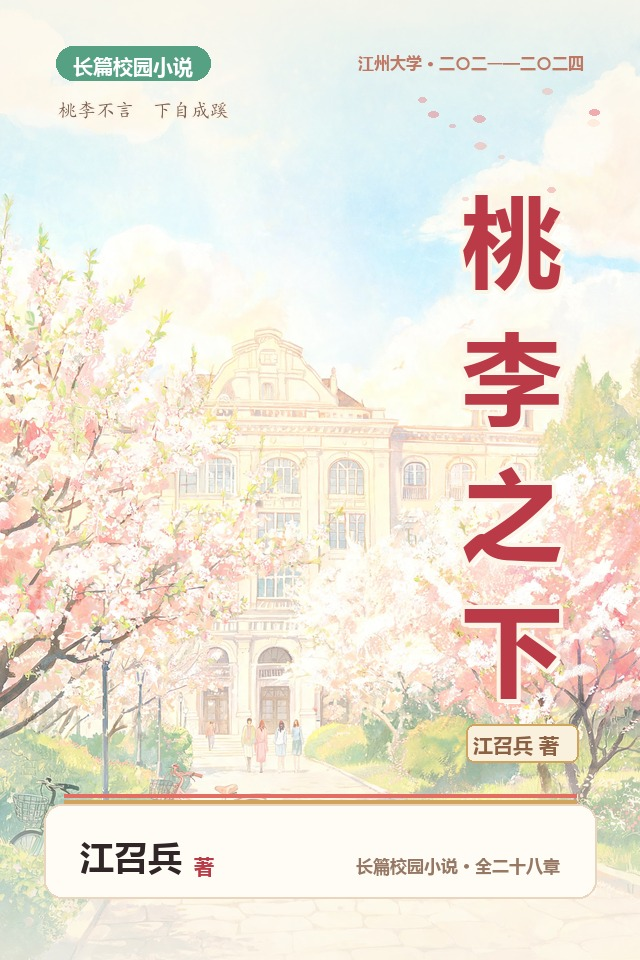
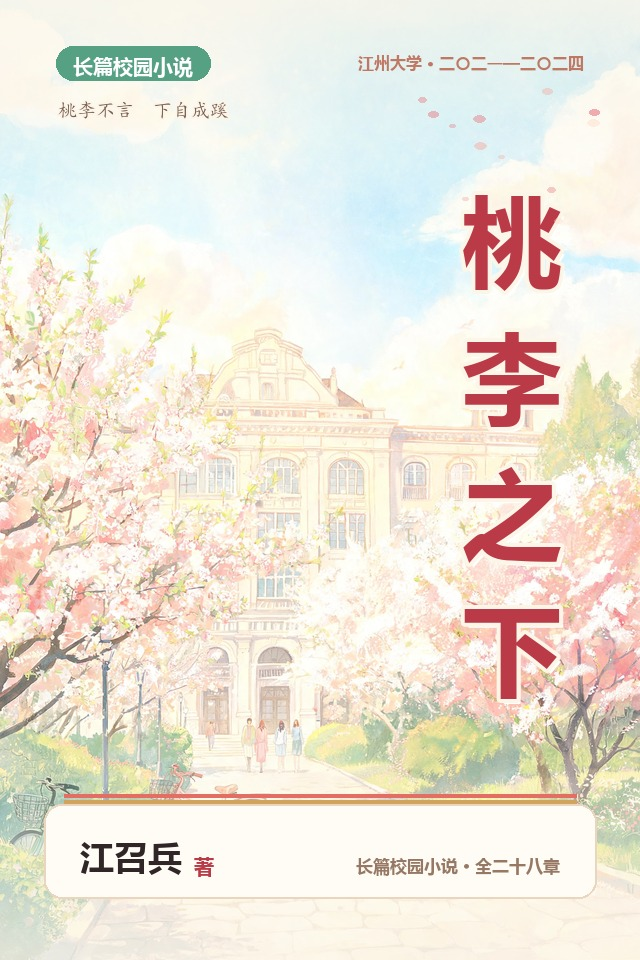
Taoli Zhixia: remove duplicate author line on cover (single byline in bottom band), bump to v=4

Changed region(s): [[0.7188, 0.75, 0.9062, 0.8125]]

diff --git a/books/index.html b/books/index.html
@@ -534,7 +534,7 @@
 
         <article class="book-card" id="book-13">
           <figure class="book-figure">
-            <img src="./taoli-zhixia/cover.jpg?v=3" alt="Cover of Taoli Zhixia (Beneath the Peach and Plum)" width="640" height="960">
+            <img src="./taoli-zhixia/cover.jpg?v=4" alt="Cover of Taoli Zhixia (Beneath the Peach and Plum)" width="640" height="960">
             <figcaption>2026 &middot; Twenty-eight chapters</figcaption>
           </figure>
           <div class="book-body">

diff --git a/books/taoli-zhixia/index.html b/books/taoli-zhixia/index.html
@@ -70,7 +70,7 @@
 
 <main class="reader" id="top">
   <div class="book-head">
-    <img class="web-cover" src="cover.jpg?v=3" alt="《桃李之下》封面：江召兵 著" width="640" height="960">
+    <img class="web-cover" src="cover.jpg?v=4" alt="《桃李之下》封面：江召兵 著" width="640" height="960">
     <h1 class="t">桃 李 之 后</h1>
     <div class="s">江州大学 · 二〇二一—二〇二四</div>
     <div class="a">江召兵　著</div>

diff --git a/zh/books.html b/zh/books.html
@@ -534,7 +534,7 @@
 
         <article class="book-card" id="book-13">
           <figure class="book-figure">
-            <img src="../books/taoli-zhixia/cover.jpg?v=3" alt="《桃李之下》封面" width="640" height="960">
+            <img src="../books/taoli-zhixia/cover.jpg?v=4" alt="《桃李之下》封面" width="640" height="960">
             <figcaption>2026 · 二十八章</figcaption>
           </figure>
           <div class="book-body">
